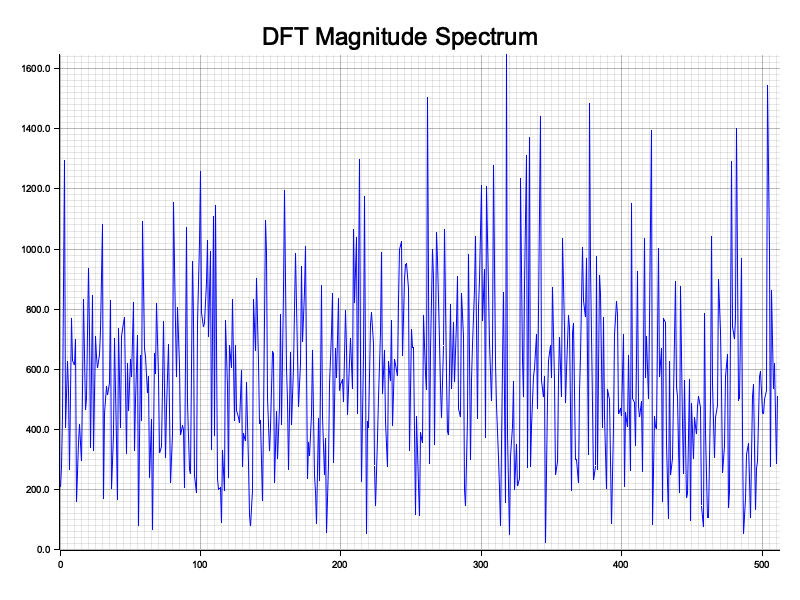
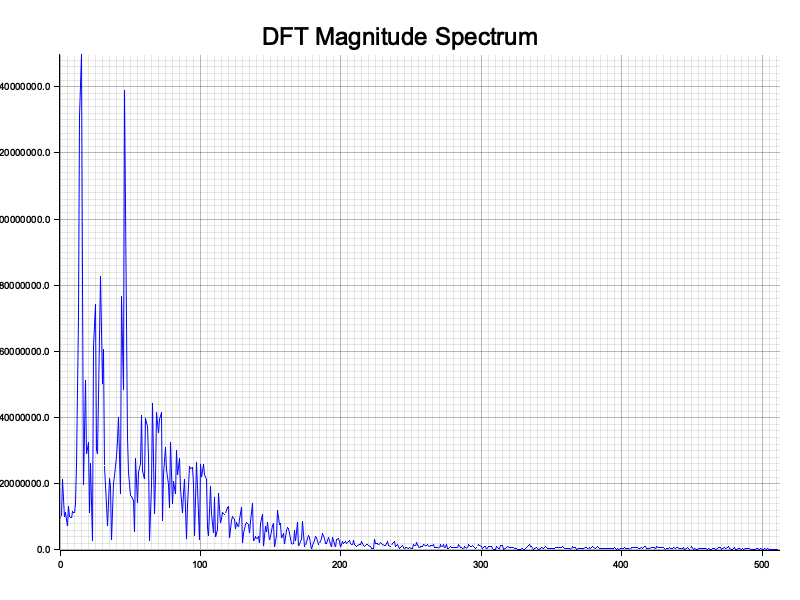
convert to mono signal and use it for analysis

diff --git a/src/main.rs b/src/main.rs
@@ -36,6 +36,22 @@ fn dft(samples: &[i32]) -> Vec<Complex> {
     result
 } // TODO: use only i32 values for now
 
+fn fft(samples: &[i32]) -> Vec<Complex64> {
+    let mut planner: rustfft::FftPlanner<f64> = rustfft::FftPlanner::new();
+    let fft = planner.plan_fft_forward(WINDOW_SIZE);
+    let mut buff: Vec<Complex64> = samples
+        .iter()
+        .copied()
+        .map(|x| Complex64 {
+            re: x as f64,
+            im: 0.0,
+        })
+        .collect();
+    fft.process(&mut buff);
+
+    buff
+}
+
 fn plot_dft_magnitude(
     output_path: &str,
     dft_result: Vec<f64>,
@@ -84,36 +100,34 @@ fn main() -> Result<()> {
     let mut wav_reader = WavReader::new(reader)?;
 
     // Read vector of i32 samples
-    let data = wav_reader.samples()?;
+    let data = wav_reader.mono()?;
 
     // Testing and comparing my naive dft vs rustfft
     let mut windows = data.windows(WINDOW_SIZE);
-    let target_window = windows.nth_back(3000).unwrap();
-    let result = dft(target_window);
-    let mut planner: rustfft::FftPlanner<f64> = rustfft::FftPlanner::new();
-    let fft = planner.plan_fft_forward(WINDOW_SIZE);
-    let mut buff = Vec::with_capacity(target_window.len());
-    for sample in target_window {
-        buff.push(Complex64 {
-            re: *sample as f64,
-            im: 0.0,
-        })
-    }
+    let target_window = windows.nth(69696).unwrap();
 
-    fft.process(&mut buff);
+    // Naive DFT
+    let dft_result = dft(target_window);
+
+    // FFT
+    let fft_result = fft(target_window);
 
     match (
         plot_dft_magnitude(
             "./dft_plot.png",
-            result
+            dft_result
                 .iter()
-                .take(result.len() / 2)
+                .take(dft_result.len() / 2)
                 .map(|x| x.abs())
                 .collect(),
         ),
         plot_dft_magnitude(
             "./fft_plot.png",
-            buff.iter().take(buff.len() / 2).map(|x| x.abs()).collect(),
+            fft_result
+                .iter()
+                .take(fft_result.len() / 2)
+                .map(|x| x.abs())
+                .collect(),
         ),
     ) {
         _ => return Ok(()),

diff --git a/src/audio.rs b/src/audio.rs
@@ -147,7 +147,7 @@ impl WavReader {
         Ok(wav_reader)
     }
 
-    pub fn samples(&mut self) -> Result<Vec<i32>> {
+    pub fn mono(&mut self) -> Result<Vec<i32>> {
         let data_size: usize = match self.config.samples.try_into() {
             Ok(val) => val,
             Err(_) => {
@@ -155,18 +155,25 @@ impl WavReader {
             }
         };
 
-        let mut data = vec![0; data_size];
-        for _ in 0..self.config.samples {
-            let sample = match self.config.wav_fmt.bits_per_sample {
-                16 => self.reader.read_le_i16()? as i32, // TODO: cast all to i32 for now
-                24 => self.reader.read_le_i24()? as i32,
-                32 => self.reader.read_le_i32()? as i32,
-                _ => {
-                    return Err(WavError::UnsupportedFormat("Sample size not supported"));
-                }
-            };
+        let channels = self.config.wav_fmt.channels;
+        let mut data = Vec::with_capacity(data_size / channels as usize);
+        for _ in 0..data.capacity() {
+            let mut channel_sum = 0; //TODO: maybe use i64 to avoid data loss if sum overflows
+            for _ in 0..channels {
+                let sample = match self.config.wav_fmt.bits_per_sample {
+                    16 => self.reader.read_le_i16()? as i32, // TODO: cast all to i32 for now
+                    24 => self.reader.read_le_i24()? as i32,
+                    32 => self.reader.read_le_i32()? as i32,
+                    _ => {
+                        return Err(WavError::UnsupportedFormat("Sample size not supported"));
+                    }
+                };
 
-            data.push(sample);
+                channel_sum += sample;
+            }
+
+            // Average the amplitude to avoid clipping
+            data.push(channel_sum / channels as i32);
         }
 
         Ok(data)
